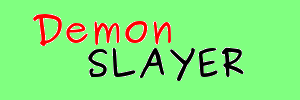
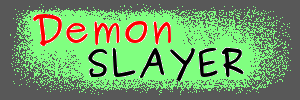
improved colors and images in menu mode

diff --git a/mainwindow.cpp b/mainwindow.cpp
@@ -1,4 +1,5 @@
 #include "mainwindow.h"
+#include <QApplication>
 
 MainWindow::MainWindow(QWidget *parent)
     : QWidget(parent),
@@ -10,18 +11,23 @@ MainWindow::MainWindow(QWidget *parent)
       startIc(new QIcon("/home/binarek/github/demon-slayer/images/start.png")),
       exitIc(new QIcon("/home/binarek/github/demon-slayer/images/exit.png"))
 {
+    /* Setup of the layout in MENU mode */
+
     this->setGeometry(500, 100, 700, 700);
 
     title->setBaseSize(300, 100);
     title->setPixmap(*titlePm);
+    title->setStyleSheet("background-color: green");
 
     startBtn->setBaseSize(300, 100);
     startBtn->setIcon(*startIc);
     startBtn->setIconSize(QSize(300, 100));
+    startBtn->setStyleSheet("background-color: green");
 
     exitBtn->setBaseSize(300, 100);
     exitBtn->setIcon(*exitIc);
     exitBtn->setIconSize(QSize(300, 100));
+    exitBtn->setStyleSheet("background-color: green");
 
     menuLayout->addStretch(1);
     menuLayout->addWidget(title);
@@ -33,7 +39,17 @@ MainWindow::MainWindow(QWidget *parent)
     menuLayout->setAlignment(exitBtn, Qt::AlignHCenter);
     menuLayout->addStretch(1);
 
+    this->setStyleSheet("background:rgb(90, 90, 90)");
+
     setLayout(menuLayout);
+
+    /* Logics of the menu */
+
+    // Start the game when "START" button is clicked
+    connect(startBtn, SIGNAL(clicked()), this, SLOT(switchToGameMode()));
+
+    // Exit app when the "EXIT" button is clicked
+    connect(exitBtn, SIGNAL(clicked()), QApplication::instance(), SLOT(quit()));
 
 }
 
@@ -42,4 +58,12 @@ MainWindow::~MainWindow()
     delete titlePm;
     delete startIc;
     delete exitIc;
+}
+
+void MainWindow::switchToGameMode()
+{
+    startBtn->setVisible(false);
+    exitBtn->setVisible(false);
+    title->setVisible(false);
+    //menuLayout->set
 }

diff --git a/mainwindow.h b/mainwindow.h
@@ -25,6 +25,10 @@ private:
     QPixmap *titlePm;
     QIcon *startIc;
     QIcon *exitIc;
+
+private slots:
+
+    void switchToGameMode();
 };
 
 #endif // MAINWINDOW_H
